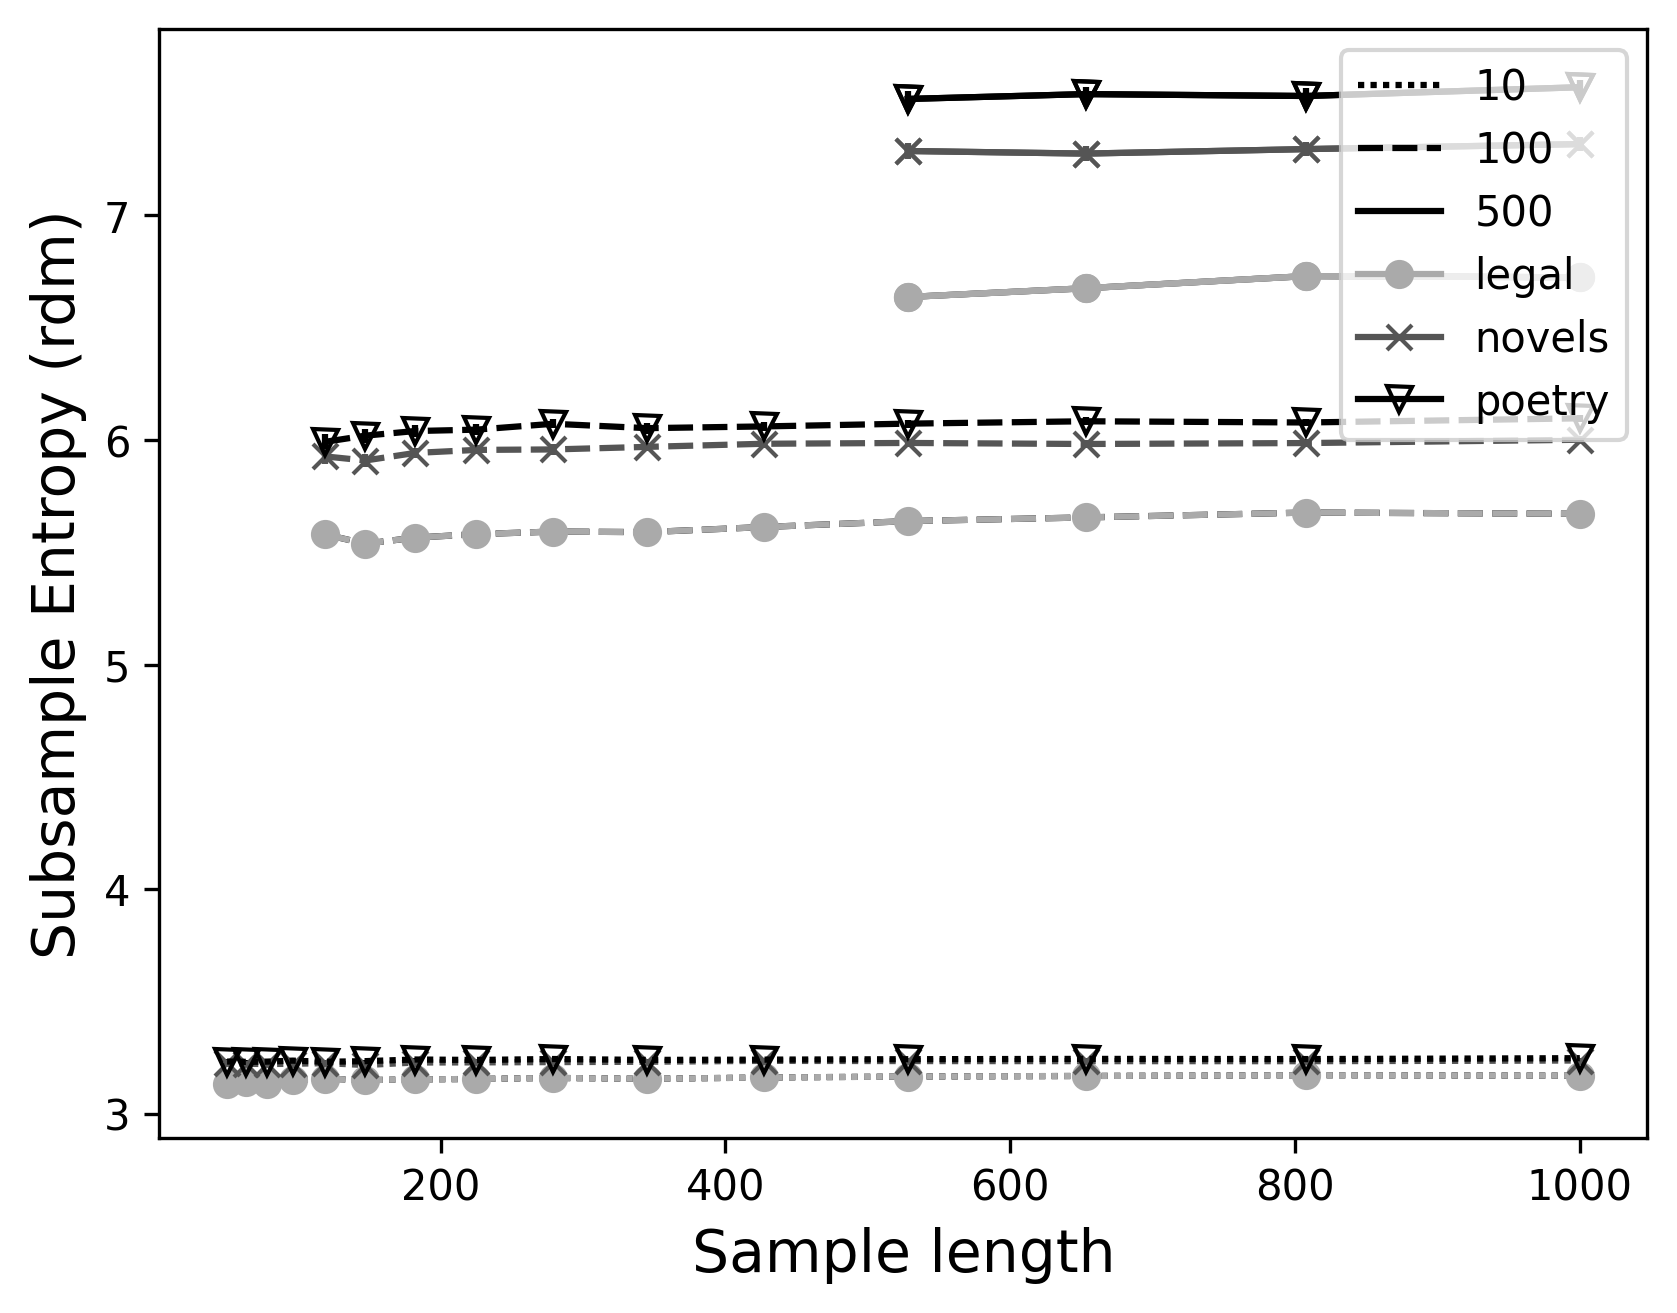
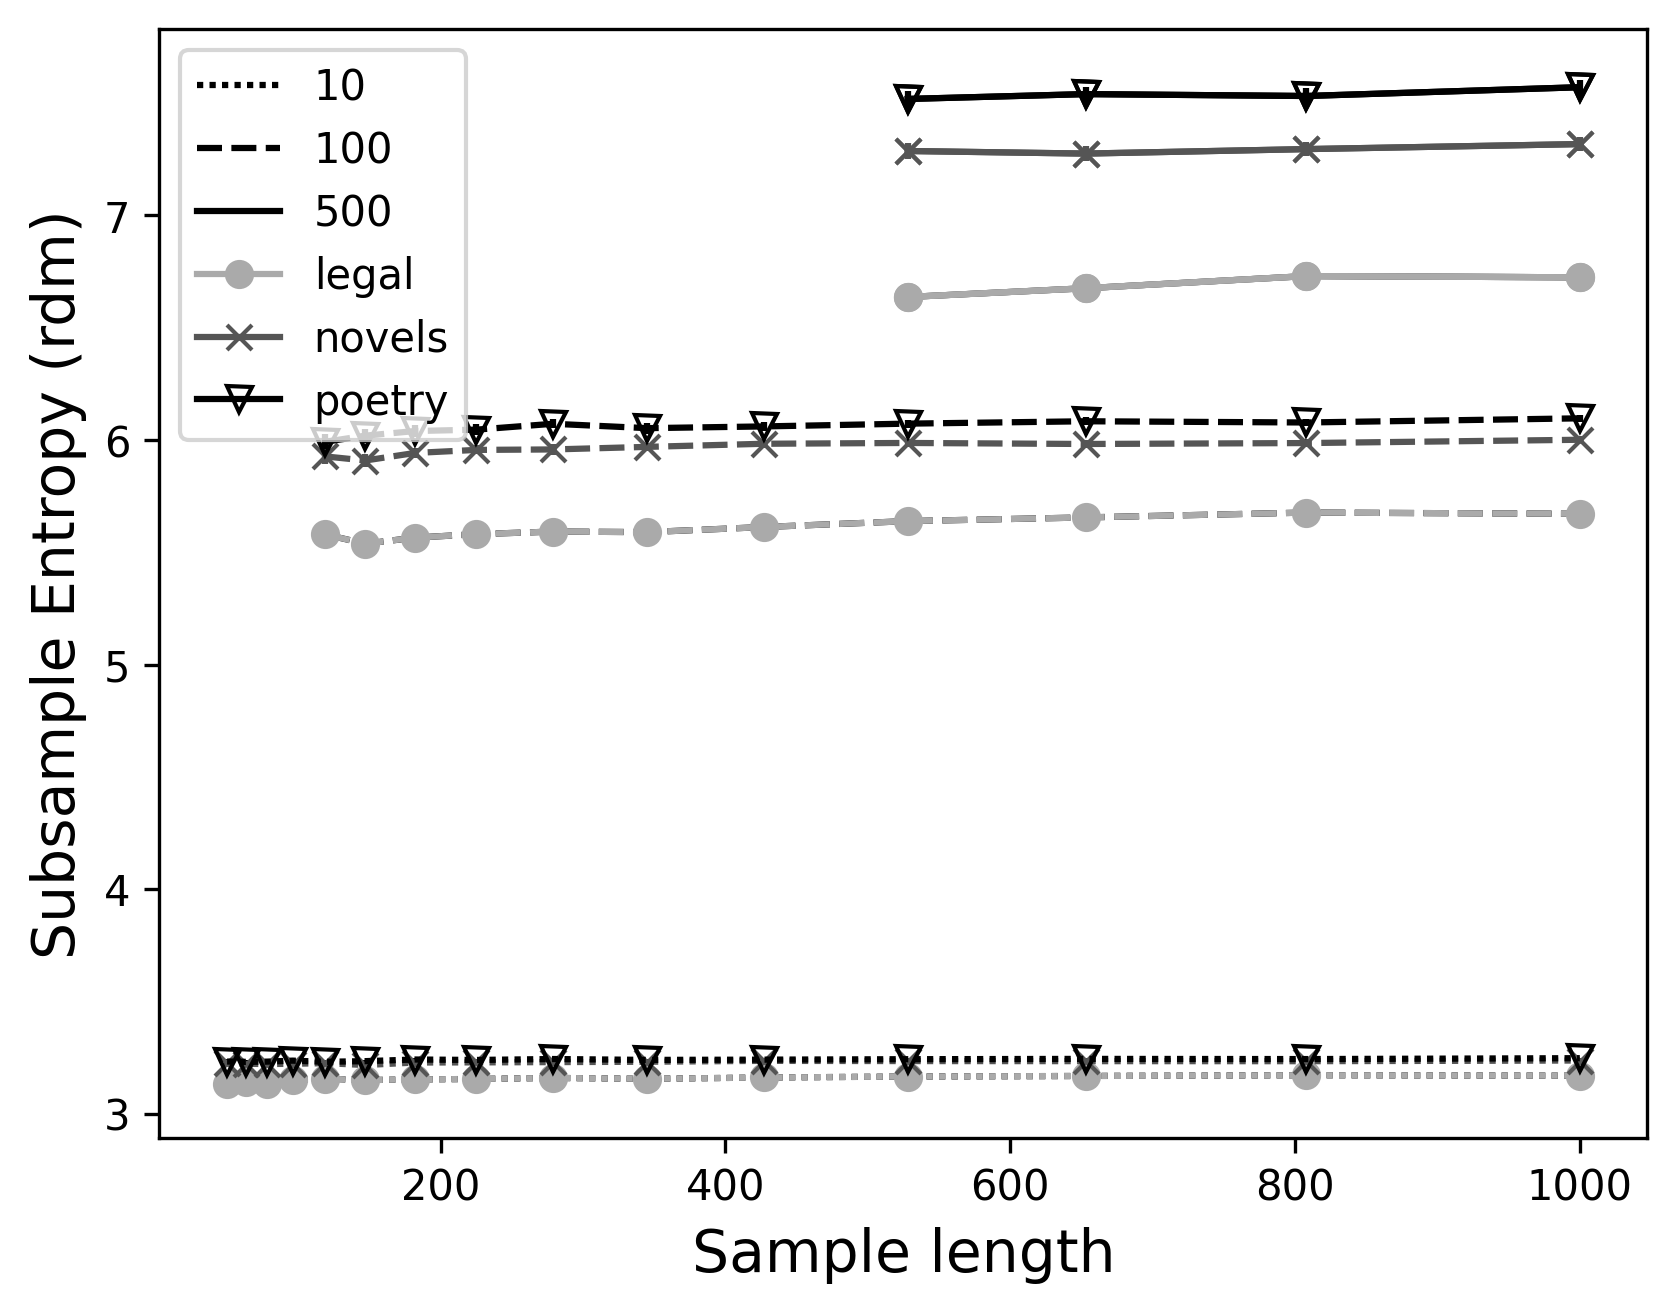
fine tune figures

diff --git a/src/sample_size_analyse_res.py b/src/sample_size_analyse_res.py
@@ -8,7 +8,7 @@ from matplotlib import cm
 # --- SCRIPT PARAMETERS
 # -------------------------------
 
-input_file_path = "../results/sample_size/results_small/small_merge.csv"
+input_file_path = "../results/sample_size/results_large/large_merge.csv"
 output_folder_path = "../results"
 output_file_prefix = "sample_size_plot"
 min_prop_to_compute_mtld = 0.6
